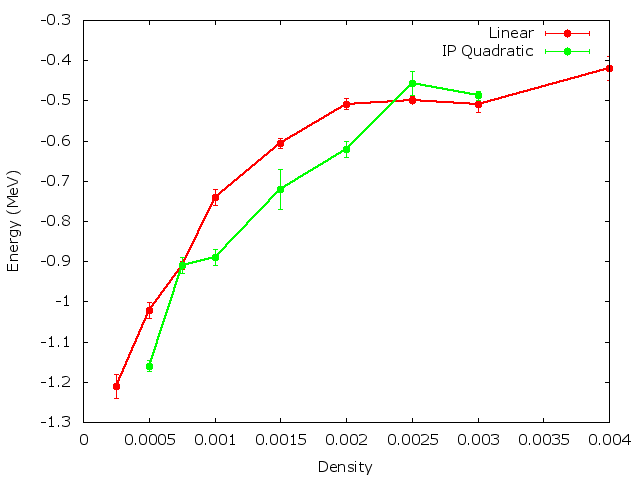
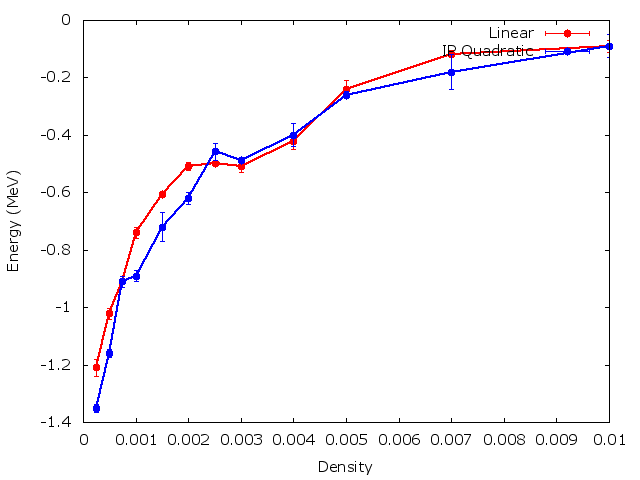
I worked more on the alpha formation part of my dissertation, including editing some of the figures that I created.

diff --git a/work/dissertation/alphaformation.tex b/work/dissertation/alphaformation.tex
@@ -1,3 +1,48 @@
 \section{Alpha Particle Formation in Neutron Rich Matter}
-\red{Include theory here and then talk about the results}
-One of the triumphs of nuclear physics is the ability to describe properties of macroscopic systems such as neutron stars with microscopic interactions. Neutron stars have been studied extensively with QMC methods from the nuclear EOS \cite{sarsa2003,gandolfi2014} to the hyperon problem \cite{lonardoni2015,gandolfi2018}. As the density of nuclear matter increases the choice of the 3N force becomes more important. However, for neutron crusts with densities only up to about 0.5$\rho_0$ the choice of 3N force is not as crucial, and NN forces alone can give good results. The outer crusts of neutron stars host atom nuclei in a degenerate bath of electrons. As the density increases the nuclear binding force will eventually give way to neutron drip and the remaining nuclei will be in a fluid of dripped neutrons \cite{}. 
+\red{Include theory here and then talk about the results\\}
+\blue{Talk about the limitations of momentum ``shells" that must be filled. Mention the possible use of ``twist" boundary conditions in the future.\\}
+\red{Talk also about why you did both linear and quadratic, etc.\\}
+One of the triumphs of nuclear physics is the ability to describe properties of macroscopic systems such as neutron stars with microscopic interactions. Neutron stars have been studied extensively with QMC methods from the nuclear EOS \cite{sarsa2003,gandolfi2014} to the hyperon problem \cite{lonardoni2015,gandolfi2018}. As the density of nuclear matter increases the choice of the 3N force becomes more important. However, for neutron star crusts with densities only up to about 0.5$\rho_0$ the choice of 3N force is not as crucial, and NN forces alone can give good results. The outer crusts of neutron stars host atom nuclei in a degenerate bath of electrons. As the density increases inside the neutron star the nuclear binding force will eventually give way to neutron drip and the remaining nuclei will be in a fluid of dripped neutrons. This has been studied \cite{lorenz1993,chamel2015} and the density at which neutron rich nuclei begin to drip neutrons is about $\rho_\text{drip} = 4.3\times10^{11}$ g cm$^{-3}$ or 0.00026 fm$^{-3}$. This neutron drip will leave smaller and smaller nuclei in a sea of neutrons. At some point even the smallest nuclei will dissolve to form uniform neutron matter, or mostly-neutron matter. To investigate this transition I have studied the formation of alpha particles in mostly-neutron matter. To do this I have used the AFDMC method in conjunction with the AV6$'$ potential using both the linear and quadratic trial wave functions. The energy of an alpha particle that has formed in neutron matter with an additional two protons would be
+\begin{equation}
+   E_\alpha = E_\text{Nn2p} - E_\text{Nn},
+   \label{equ:alphaenergy}
+\end{equation}
+where $E_\text{Nn2p}$ is the energy for $N$ neutrons and 2 protons and $E_\text{Nn}$ is the energy for $N$ neutrons alone. I have calculated the energy per particle of 14 neutrons with and without the presence of 2 protons in a box with periodic boundary conditions. At proper densities the 2 protons will form, with 2 neutrons, an alpha particle surrounded by free neutrons and the energy of $E_\alpha$ in Equation~\ref{equ:alphaenergy} will be the energy of the 2 protons and 2 neutrons. If the energy per particle is given by $\epsilon = E/A$ then for 14 particles this becomes
+\begin{equation}
+   E_\alpha = 14\epsilon_\text{14n2p} - 12\epsilon_\text{14n}.
+   \label{equ:alphaenergy14n2p}
+\end{equation}
+I have plotted this energy as a function of density using both linear and quadratic correlations in Figure~\ref{fig:alpha}.
+\begin{figure}[h!]
+   \centering
+   \includegraphics[width=0.7\textwidth]{figures/alpha.png}
+   \caption{Energy of 2 protons and 2 neutrons with 12 free neutrons as calculated with Equation~\ref{equ:alphaenergy14n2p} as calculated with linear and quadratic correlations. I have also added a green horizontal line at the alpha particle energy as calculated with AFDMC using the same AV6$'$ interaction and quadratic correlations.}
+   \label{fig:alpha}
+\end{figure}
+If the free neutrons did not interact with the formed alpha particle it would be expected that the alpha particle energy would agree with previous AFDMC calculations. The discrepancy in alpha particle energy at low densities then must be due to the excess neutrons deforming the alpha particle. To verify that 2 protons and 2 neutrons will give the correct energy when put in a box I have calculated the energy of 2 protons and 2 neutrons in various boxes of different densities as shown in Figure~\ref{fig:alpha2n2p}.
+\begin{figure}[h!]
+   \centering
+   \includegraphics[width=0.7\textwidth]{figures/2n2p.png}
+   \caption{Energy of 2 protons and 2 neutrons with 12 free neutrons as calculated with Equation~\ref{equ:alphaenergy14n2p} as calculated with linear and quadratic correlations. I have also added a green horizontal line at the alpha particle energy as calculated with AFDMC using the same AV6$'$ interaction and quadratic correlations.}
+   \label{fig:alpha2n2p}
+\end{figure}
+The energy at low densities is much closer to the alpha particle energy as calculated with AFDMC.
+
+The other possible explanation for the difference in energy is that an alpha particle isn't forming at all. To investigate this I have looked at the pair correlations function
+\begin{equation}
+   g_\mathcal{O}(r) = \frac{1}{4\pi r^2} \bra{\Psi}\sum\limits_{i<j}\mathcal{O}_{ij}\delta(r-r_{ij})\ket{\Psi},
+\end{equation}
+where I have specifically looked at the case where the operator is the $pp$ operator. The $g_{pp}(r)$ distribution gives the probability of finding two protons at a distance $r$ from eachother. I have plotted these for a few of the densities for which energies were calculated in Figure~\ref{fig:gpp}.
+\begin{figure}[h!]
+   \centering
+   \includegraphics[width=0.7\textwidth]{figures/gpp.pdf}
+   \caption{Pair correlations functions, $g_{pp}$ that give the probability of finding 2 protons a distance $r$ from eachother. This is only shown for a few of the densities calculated to keep the figure less busy.}
+   \label{fig:gpp}
+\end{figure}
+It is clear to see that as the density decreases the probability of finding the 2 protons at a close distance to eachother increases. This is consistent with the formation of an alpha particle. This opposite is true, that as the density increases the protons are more likely to be found separated at larger distances, indicating the dissipation of the alpha particle. This can be seen in Figure~\ref{fig:gpp_small} with is simply showing more detail to the high separation tail in Figure~\ref{fig:gpp}
+\begin{figure}[h!]
+   \centering
+   \includegraphics[width=0.7\textwidth]{figures/gpp_small.pdf}
+   \caption{Large seperation part of the pair correlations functions $g_{pp}$ at different densities.}
+   \label{fig:gpp_small}
+\end{figure}

diff --git a/results/cluster/gofrnp/plotgofr.py b/results/cluster/gofrnp/plotgofr.py
@@ -2,12 +2,12 @@ import numpy as np
 import matplotlib.pyplot as plt
 
 #set up input parameters
-calc=2 #1=14n2p 2=2n2p
+calc=1 #1=14n2p 2=2n2p
 corrtype=2 #1=lin, 2=ip
 sys=5 #np0=1, np1=3, pp=5, nn=7
 density=('0.0005','0.001','0.002','0.003','0.005','0.01')
-density=('0.00025','0.0005','0.001','0.002','0.003','0.01')
-pltstyle=('ko','ro','mo','yo','go','bo')
+density=('0.00025','0.0005','0.001','0.002','0.003','0.005','0.01')
+pltstyle=('ko','ro','mo','yo','go','co','bo')
 
 #build other parameters
 lenfiles=len(density)
@@ -49,7 +49,11 @@ else:
 data=[None]*lenfiles
 for n in range(0,lenfiles):
    #build data and remove unwanted pieces
-   f=open('gofrnp_'+density[n]+'_'+corr+calcname+'.dmc')
+   if(float(density[n])<0.00026):
+      f=open('fine/gofrnp_'+density[n]+'_'+corr+calcname+'_fine.dmc')
+   else:
+      f=open('gofrnp_'+density[n]+'_'+corr+calcname+'.dmc')
+#   f=open('gofrnp_'+density[n]+'_'+corr+calcname+'.dmc')
    data[n]=[]
    for line in f.readlines():
       data[n].append(line.split())
